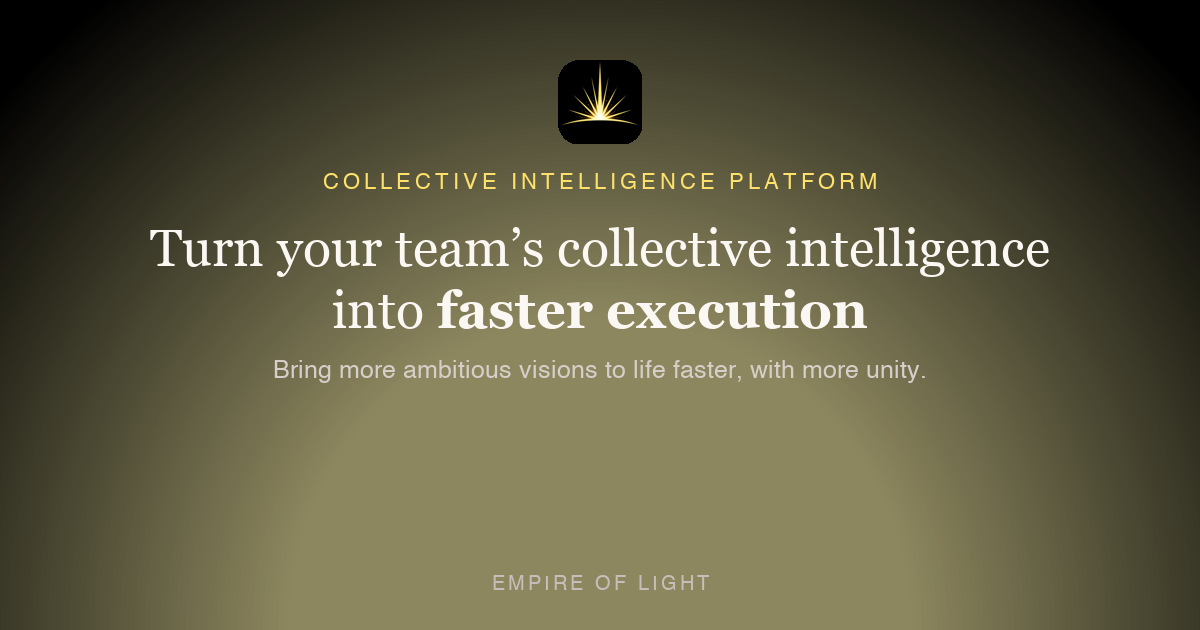
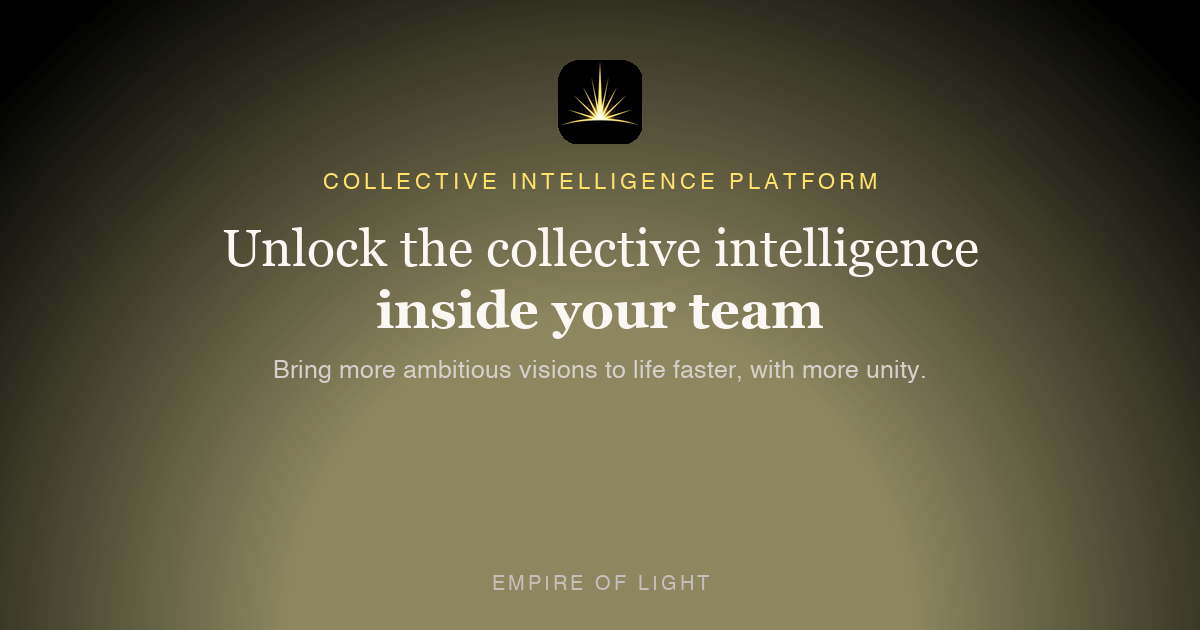
Revert hero headline, trim how-it-works to 3 steps, sharpen transformation heading
- Hero headline reverted to "Unlock the collective intelligence inside
  your team" (dropped "faster execution" framing); OG image regenerated
  to match.
- "How it works" reduced from 4 steps to 3 — folds the fit/investment/
  app-access details into step 1, updates the grid layout and the
  "step 2 on" facilitated-engagement callout accordingly.
- Before/after section heading changed from "What changes for a team"
  to "Get your team aligned, moving, and reenergized so you can
  execute faster."

Changed region(s): [[0.1233, 0.3619, 0.8942, 0.4524], [0.2775, 0.4524, 0.74, 0.5429]]

diff --git a/src/pages/HomePage.tsx b/src/pages/HomePage.tsx
@@ -14,31 +14,16 @@ const HOW_STEPS = [
   {
     n: '01',
     title: 'Book a conversation',
-    body: 'A short call to talk through your team, where you’re stuck, and whether this is the right fit.',
+    body: 'A short call to talk through your team, where you’re stuck, and whether this is the right fit. Once it’s a match, you commit as a founding co-creator and your team gets access to the app.',
   },
   {
     n: '02',
-    title: 'We confirm fit — you invest',
-    body: 'If it’s a match, you commit as a founding co-creator and your team’s spot is secured.',
+    title: 'Vision workshop',
+    body: 'Everyone completes the vision questionnaire individually, ahead of time. Then the team comes together for a vision workshop to see where there’s alignment, and where there’s disconnect.',
   },
   {
     n: '03',
-    title: 'Your team is invited in',
-    body: 'Everyone gets access to the app and completes the vision questionnaire — async, individual reflection first. This is where the intelligence that never makes it into meetings gets written down.',
-  },
-  {
-    n: '04',
-    title: 'We run the vision workshop together',
-    body: 'Facilitated by us, using what the questionnaire surfaced. Convergence and disagreement both go on the table.',
-  },
-  {
-    n: '05',
-    title: 'The team commits to the vision',
-    body: 'One statement, tangible and emotionally resonant, that everyone agrees to. It lives at the top of the app from then on.',
-  },
-  {
-    n: '06',
-    title: 'You work the cycle, then evolve',
+    title: 'We work the cycle, then evolve',
     body: 'Experiments toward the vision, friction logged and processed, biweekly sessions with us. One full evolve cycle, then the team keeps using the app on its own.',
   },
 ]
@@ -203,7 +188,7 @@ export default function HomePage() {
             className="m-0 mb-7 text-[38px] leading-[1.1] font-light md:text-[52px] lg:text-[64px] lg:leading-[1.06]"
             style={{ ...DISPLAY, letterSpacing: '.02em', color: '#FBF7F2' }}
           >
-            Turn your team&rsquo;s collective intelligence into <em style={{ fontStyle: 'normal', fontWeight: 600 }}>faster execution</em>
+            Unlock the collective intelligence <em style={{ fontStyle: 'normal', fontWeight: 600 }}>inside your team</em>
           </h1>
           <p className="mx-auto mb-10 max-w-[640px] text-[18px] leading-[1.5] md:text-[21px]" style={{ color: 'rgba(251,247,242,.78)' }}>
             Bring more ambitious visions to life faster, with more unity.
@@ -325,7 +310,7 @@ export default function HomePage() {
           <div className="mb-10 max-w-[720px]">
             <Eyebrow>The transformation</Eyebrow>
             <h2 className="m-0 mb-2 text-[30px] leading-[1.1] font-light md:text-[42px] md:leading-[1.06]" style={{ ...DISPLAY, letterSpacing: '.02em', color: '#131114' }}>
-              What changes for a team
+              Get your team aligned, moving, and reenergized so you can execute faster
             </h2>
           </div>
           <div className="overflow-x-auto rounded-xl border" style={{ borderColor: '#D8D2DC' }}>
@@ -377,7 +362,7 @@ export default function HomePage() {
             </p>
           </div>
           <div
-            className="grid grid-cols-1 gap-px overflow-hidden rounded-xl border sm:grid-cols-2 lg:grid-cols-3"
+            className="grid grid-cols-1 gap-px overflow-hidden rounded-xl border sm:grid-cols-3"
             style={{ background: 'rgba(251,247,242,.14)', borderColor: 'rgba(251,247,242,.14)' }}
           >
             {HOW_STEPS.map((step) => (
@@ -395,7 +380,7 @@ export default function HomePage() {
             ))}
           </div>
           <p className="mt-7 text-center text-[15px]" style={{ color: 'rgba(251,247,242,.5)' }}>
-            Step 1 is a conversation. From step 4 on, it&rsquo;s the facilitated engagement, with the app carrying everything before,
+            Step 1 is a conversation. From step 2 on, it&rsquo;s the facilitated engagement, with the app carrying everything before,
             during, and after.
           </p>
           <div className="mt-9 flex justify-center">
